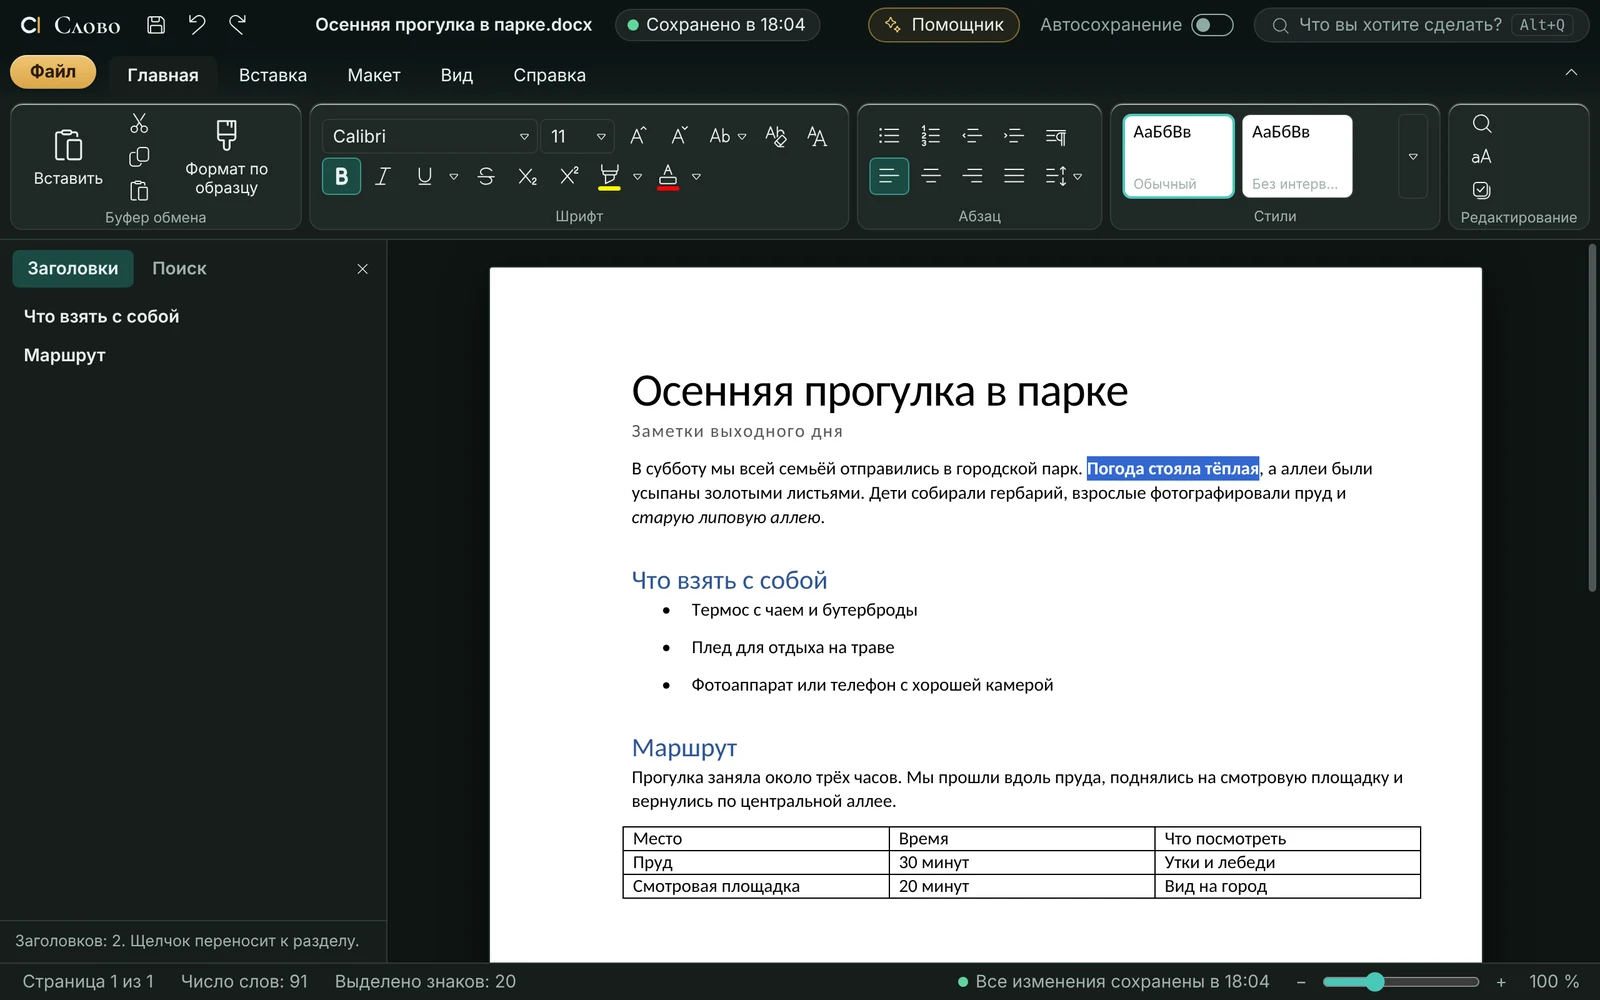
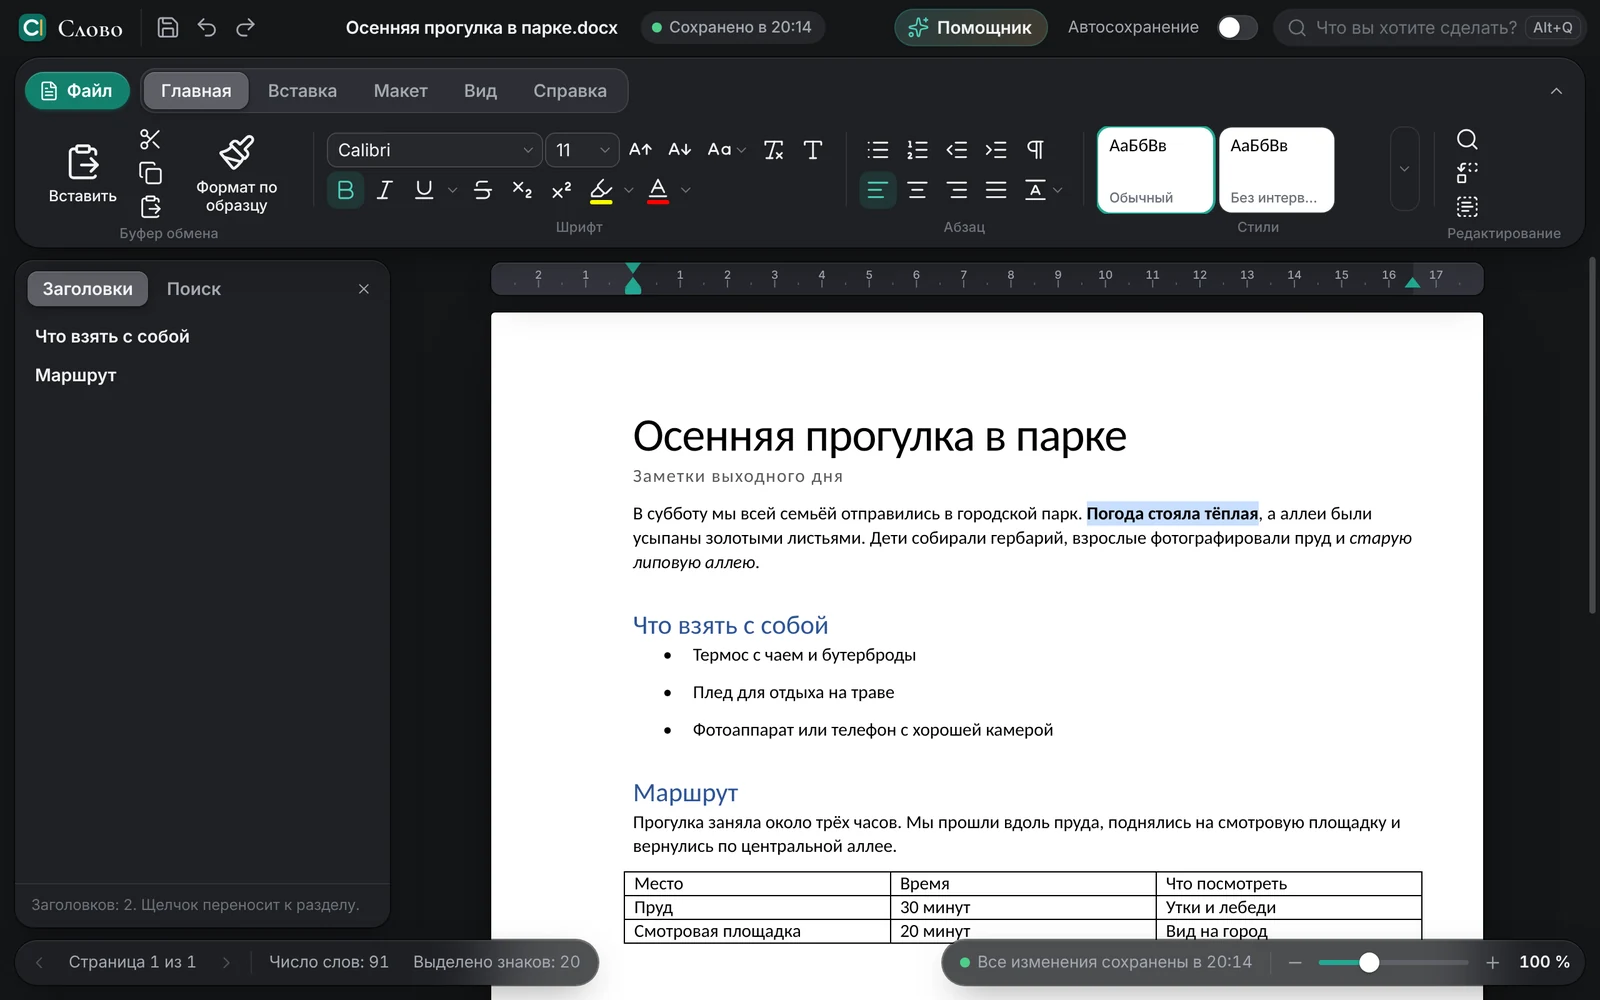
Сайт: версия 0.2.2 — новое оформление, свежие снимки экранов
Claude-Session: https://claude.ai/code/session_01N2mruRdKFJM3Sfqq2gLwEa

Changed region(s): [[0.0, 0.372, 1.0, 1.0], [0.0, 0.0, 1.0, 0.403], [0.5312, 0.0, 1.0, 0.062]]

diff --git a/index.html b/index.html
@@ -33,7 +33,7 @@
         <h1>Слово<span class="caret" aria-hidden="true"></span></h1>
         <p class="tag">Редактор документов с&nbsp;помощником-нейросетью</p>
         <p class="lead">Пишите и оформляйте тексты, сохраняйте их в&nbsp;.docx и&nbsp;PDF, печатайте. Нейросеть исправит ошибки и поможет с&nbsp;конспектом, письмом или рефератом.</p>
-        <a class="cta" href="https://github.com/fsb-helper-ru/slovo/releases/download/v0.2.1/Slovo-0.2.1-Setup.exe" data-download>
+        <a class="cta" href="https://github.com/fsb-helper-ru/slovo/releases/download/v0.2.2/Slovo-0.2.2-Setup.exe" data-download>
           <svg viewBox="0 0 24 24" fill="none" stroke="currentColor" stroke-width="2.2" stroke-linecap="round" stroke-linejoin="round" aria-hidden="true"><path d="M12 4v11"/><path d="M7 11l5 5 5-5"/><path d="M5 20h14"/></svg>
           Скачать для Windows
         </a>
@@ -57,7 +57,8 @@
           <ul>
             <li>Открывает и сохраняет файлы .docx — их можно отправить кому угодно</li>
             <li>Привычные сочетания клавиш работают и в русской раскладке</li>
-            <li>Светлая и тёмная тема, режим «Фокус» без лишнего на экране</li>
+            <li>Лента и панели из матового стекла парят над листом; светлая и тёмная тема</li>
+            <li>Линейка над листом: отступы и красная строка — мышью; режим «Фокус» без лишнего на экране</li>
           </ul>
         </div>
         <img class="shot" src="img/dark.webp" width="1600" height="1000" loading="lazy" alt="Тот же документ в тёмной теме: лента с кнопками оформления, страница с заголовками, списком и таблицей.">
@@ -126,7 +127,7 @@
           <p>Когда владелец одобрит заявку, программа откроется сама. Окно можно закрыть и зайти позже — заявка сохранится.</p>
         </li>
       </ol>
-      <a class="cta" href="https://github.com/fsb-helper-ru/slovo/releases/download/v0.2.1/Slovo-0.2.1-Setup.exe" data-download>
+      <a class="cta" href="https://github.com/fsb-helper-ru/slovo/releases/download/v0.2.2/Slovo-0.2.2-Setup.exe" data-download>
         <svg viewBox="0 0 24 24" fill="none" stroke="currentColor" stroke-width="2.2" stroke-linecap="round" stroke-linejoin="round" aria-hidden="true"><path d="M12 4v11"/><path d="M7 11l5 5 5-5"/><path d="M5 20h14"/></svg>
         Скачать установщик
       </a>
@@ -170,7 +171,7 @@
       <details id="faq-sum">
         <summary>Как проверить, что установщик настоящий?</summary>
         <p>У каждого файла есть контрольная сумма — «отпечаток». Если у скачанного файла она совпадает с указанной здесь, файл не подменён и не повреждён.</p>
-        <p>Откройте PowerShell в папке с файлом и выполните: <span class="sum" data-hashcmd>Get-FileHash .\Slovo-0.2.1-Setup.exe</span></p>
+        <p>Откройте PowerShell в папке с файлом и выполните: <span class="sum" data-hashcmd>Get-FileHash .\Slovo-0.2.2-Setup.exe</span></p>
         <p>Должно получиться: <span class="sum" data-sha>сумма появится здесь после загрузки сведений о версии</span></p>
       </details>
       <details>

diff --git a/changelog.html b/changelog.html
@@ -28,6 +28,16 @@
     <h1>Что нового</h1>
     <p class="intro">Установленная программа обновляется сама: новая версия скачивается и ставится при закрытии.</p>
 
+    <h2>Версия 0.2.2</h2>
+    <p class="date">13 ноября 2026 года</p>
+    <ul>
+      <li>Новое оформление «Стекло и бумага»: лента и панели парят над листом, страницы видны сквозь матовое стекло.</li>
+      <li>Светлая (серебристая) и тёмная (графитовая) темы, плавная смена темы и мягкие анимации.</li>
+      <li>Линейка над листом: отступы абзаца и красная строка перетаскиваются мышью.</li>
+      <li>Новый экран печати: число копий кнопками, страницы одним щелчком, лента страниц и масштаб просмотра.</li>
+      <li>Параметры, «Мои документы» и справочник — в виде аккуратных карточек; новые тонкие значки.</li>
+    </ul>
+
     <h2>Версия 0.2.1</h2>
     <p class="date">13 ноября 2026 года</p>
     <ul>
